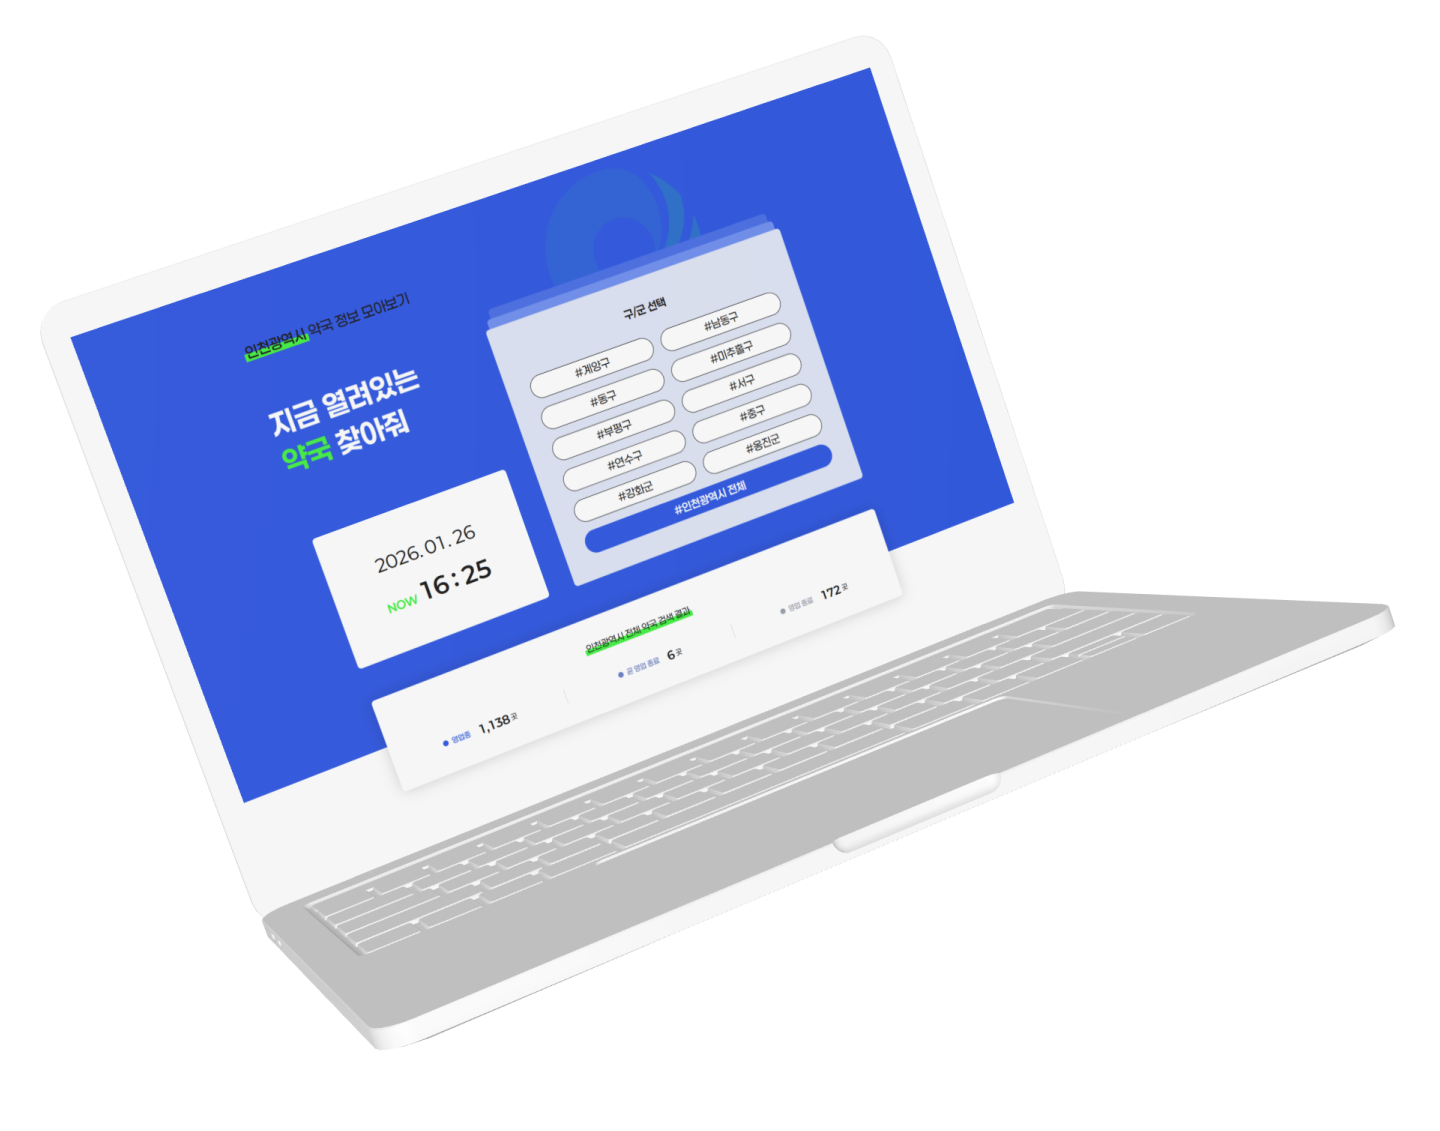
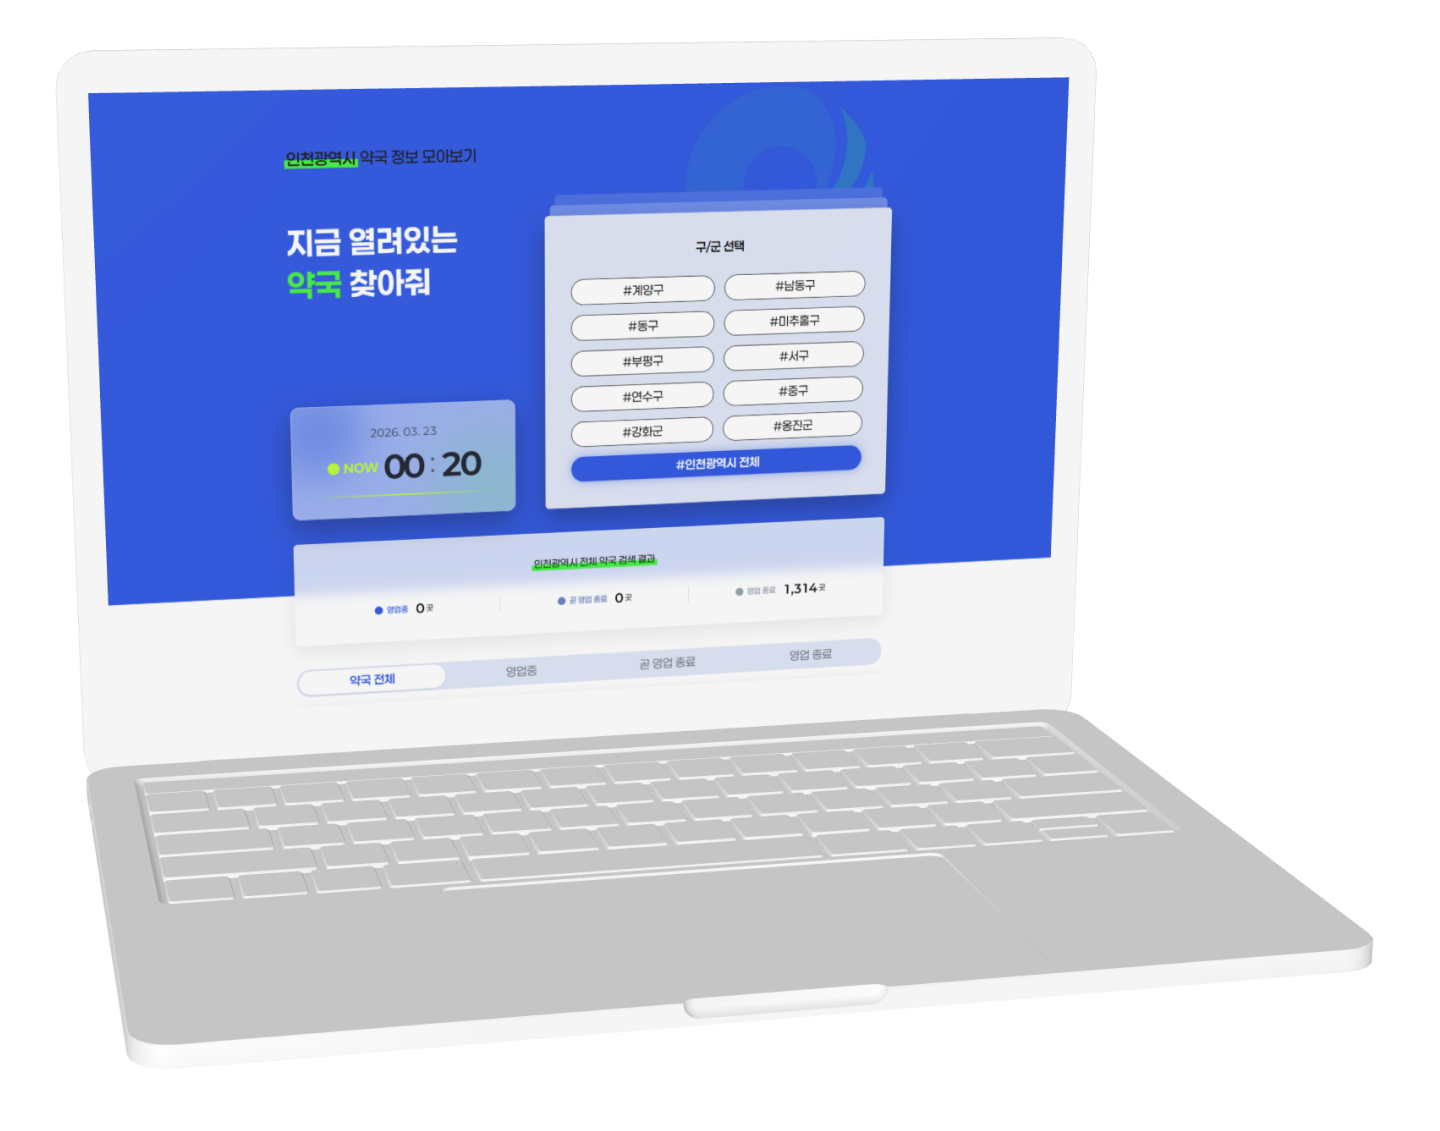
worksData 수정

diff --git a/src/assets/data/worksData.js b/src/assets/data/worksData.js
@@ -43,7 +43,7 @@ export const worksData = [
         skill1: 'Design',
         skill2: 'React',
         type: 'personal',
-        desc: 'Axios를 활용해 공공데이터 REST API를 호출하여 인천광역시 구/군별 약국 정보를 조회하는 웹 애플리케이션을 구현했습니다. 영업 시간 데이터를 기반으로 영업중, 곧 영업종료, 영업종료 상태를 실시간 계산해 UI에 반영했으며, 상태 필터와 더보기 페이지네이션을 통해 대용량 데이터를 효율적으로 탐색할 수 있도록 설계했습니다. 지도 검색은 주소와 약국명을 결합해 검색 정확도를 개선했으며, 영업 종료 시 전화 버튼 비활성화 등 상태 기반 UX를 적용해 실제 서비스에 가까운 사용자 경험을 구현했습니다.',
+        desc: 'Axios를 활용해 공공데이터 REST API를 호출하여 인천광역시 구/군별 약국 정보를 조회하는 웹 애플리케이션을 구현했습니다. 영업 시간 데이터를 기반으로 영업중, 곧 영업종료, 영업종료 상태를 실시간 계산해 UI에 반영했으며, 상태 필터와 더보기 페이지네이션을 통해 대용량 데이터를 효율적으로 탐색할 수 있도록 설계했습니다. 지도 검색은 주소와 약국명을 결합해 검색 정확도를 개선했으며, 영업 종료 시 전화 버튼 비활성화 등 상태 기반 UX를 적용해 실제 서비스에 가까운 사용자 경험을 구현했습니다. 또한 GSAP을 활용해 상태 요약 카운팅 애니메이션과 필터 슬라이딩 인터랙션 등을 구현하여 사용자 인터랙션의 몰입도를 높였습니다.',
         details: {
             structure:
                 '히어로, 지역 선택, 상태 필터, 약국 리스트, 더보기 버튼으로 구성된 원페이지',
@@ -56,6 +56,7 @@ export const worksData = [
             'Axios',
             'Public REST API',
             'Tailwind CSS',
+            'GSAP',
             'Vercel',
         ],
         links: {
